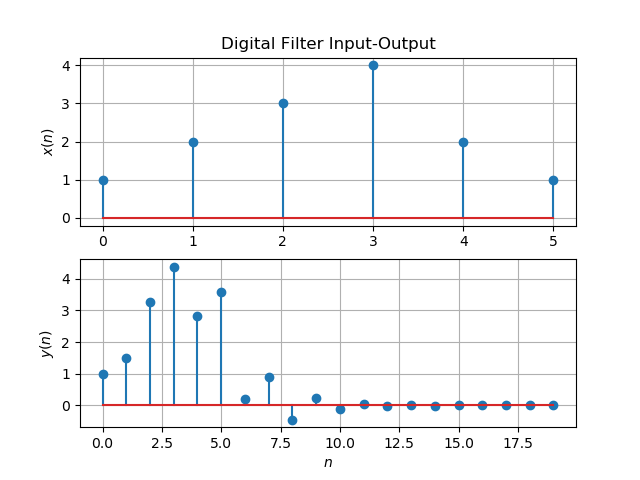
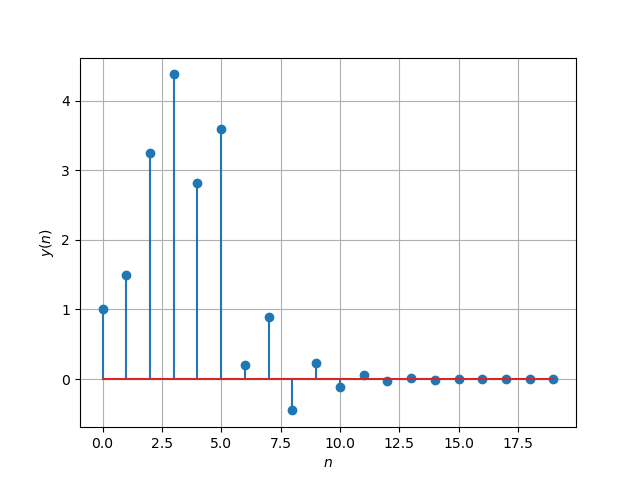
...

diff --git a/Assignment_1/3.2.py b/Assignment_1/3.2.py
@@ -1,9 +1,5 @@
 import numpy as np
 import matplotlib.pyplot as plt
-#If using termux
-import subprocess
-import shlex
-#end if
 
 
 
@@ -24,23 +20,8 @@ for n in range(2,k-1):
 		y[n] = -0.5*y[n-1]
 print(y)
 
-#subplots
-plt.subplot(2, 1, 1)
-plt.stem(range(0,6),x)
-plt.title('Digital Filter Input-Output')
-plt.ylabel('$x(n)$')
-plt.grid()# minor
-
-
-plt.subplot(2, 1, 2)
 plt.stem(range(0,k),y)
 plt.xlabel('$n$')
 plt.ylabel('$y(n)$')
-plt.grid()# minor
-
-#If using termux
-# plt.savefig('../figs/xnyn.pdf')
-# plt.savefig('../figs/xnyn.eps')
-# subprocess.run(shlex.split("termux-open ../figs/xnyn.pdf"))
-# #else
+plt.grid()
 plt.show()

diff --git a/Assignment_1/3.3.c b/Assignment_1/3.3.c
@@ -2,5 +2,31 @@
 
 int main()
 {
-    
+    float x[6] = {1.0,2.0,3.0,4.0,2.0,1.0};
+    int k =20;
+    float y[20] = {0};
+
+    y[0] = x[0];
+    y[1] = -0.5*y[0]+ x[1];
+
+    for (int i=2; i<k; i++)
+    {
+        if (i<6)
+        {
+            y[i] = -0.5*y[i-1]+x[i]+x[i-2];
+        }
+        else if (i>5 && i<8)
+        {
+            y[i] = -0.5*y[i-1]+x[i-2];
+        }
+        else
+        {
+            y[i] = -0.5*y[i-1];
+        }
+    }
+    for (int i =0; i<20; i++)
+    {
+        printf("%f, ",y[i]);
+    }
+
 }

diff --git a/Assignment_1/3.1.py b/Assignment_1/3.1.py
@@ -1,0 +1,12 @@
+import numpy as np
+import matplotlib.pyplot as plt
+
+
+
+x=np.array([1.0,2.0,3.0,4.0,2.0,1.0])
+
+plt.stem(range(0,6),x)
+plt.xlabel('$n$')
+plt.ylabel('$x(n)$')
+plt.grid()
+plt.show()
